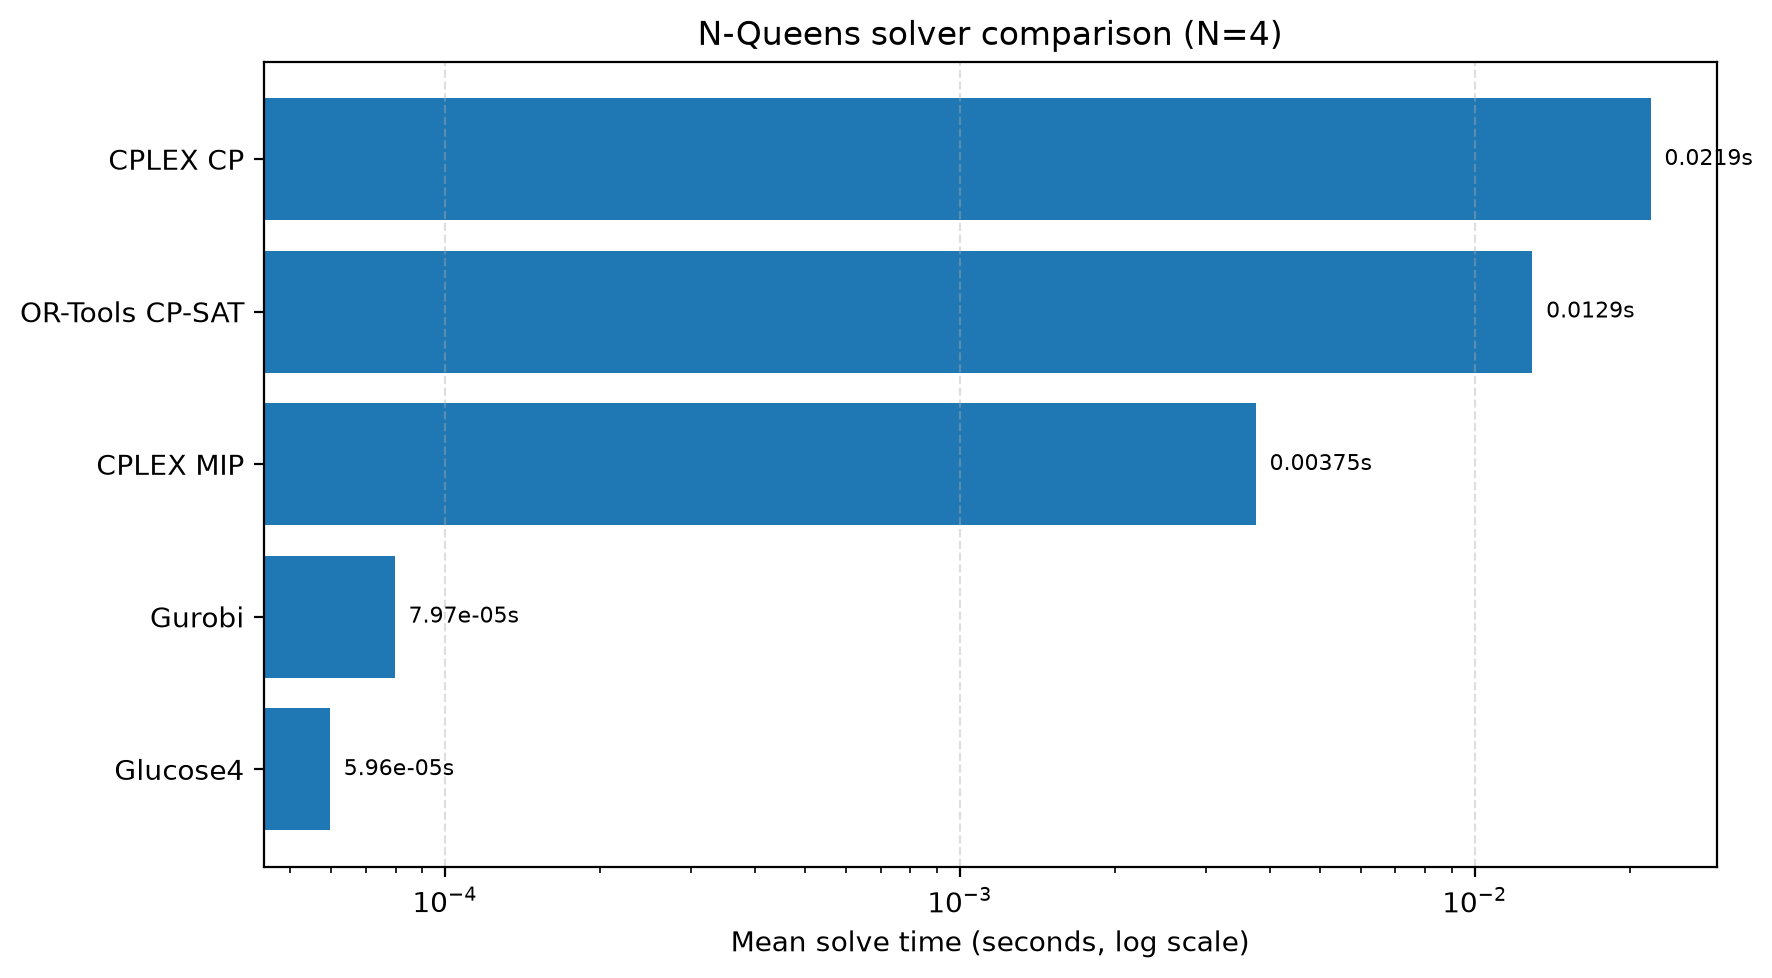
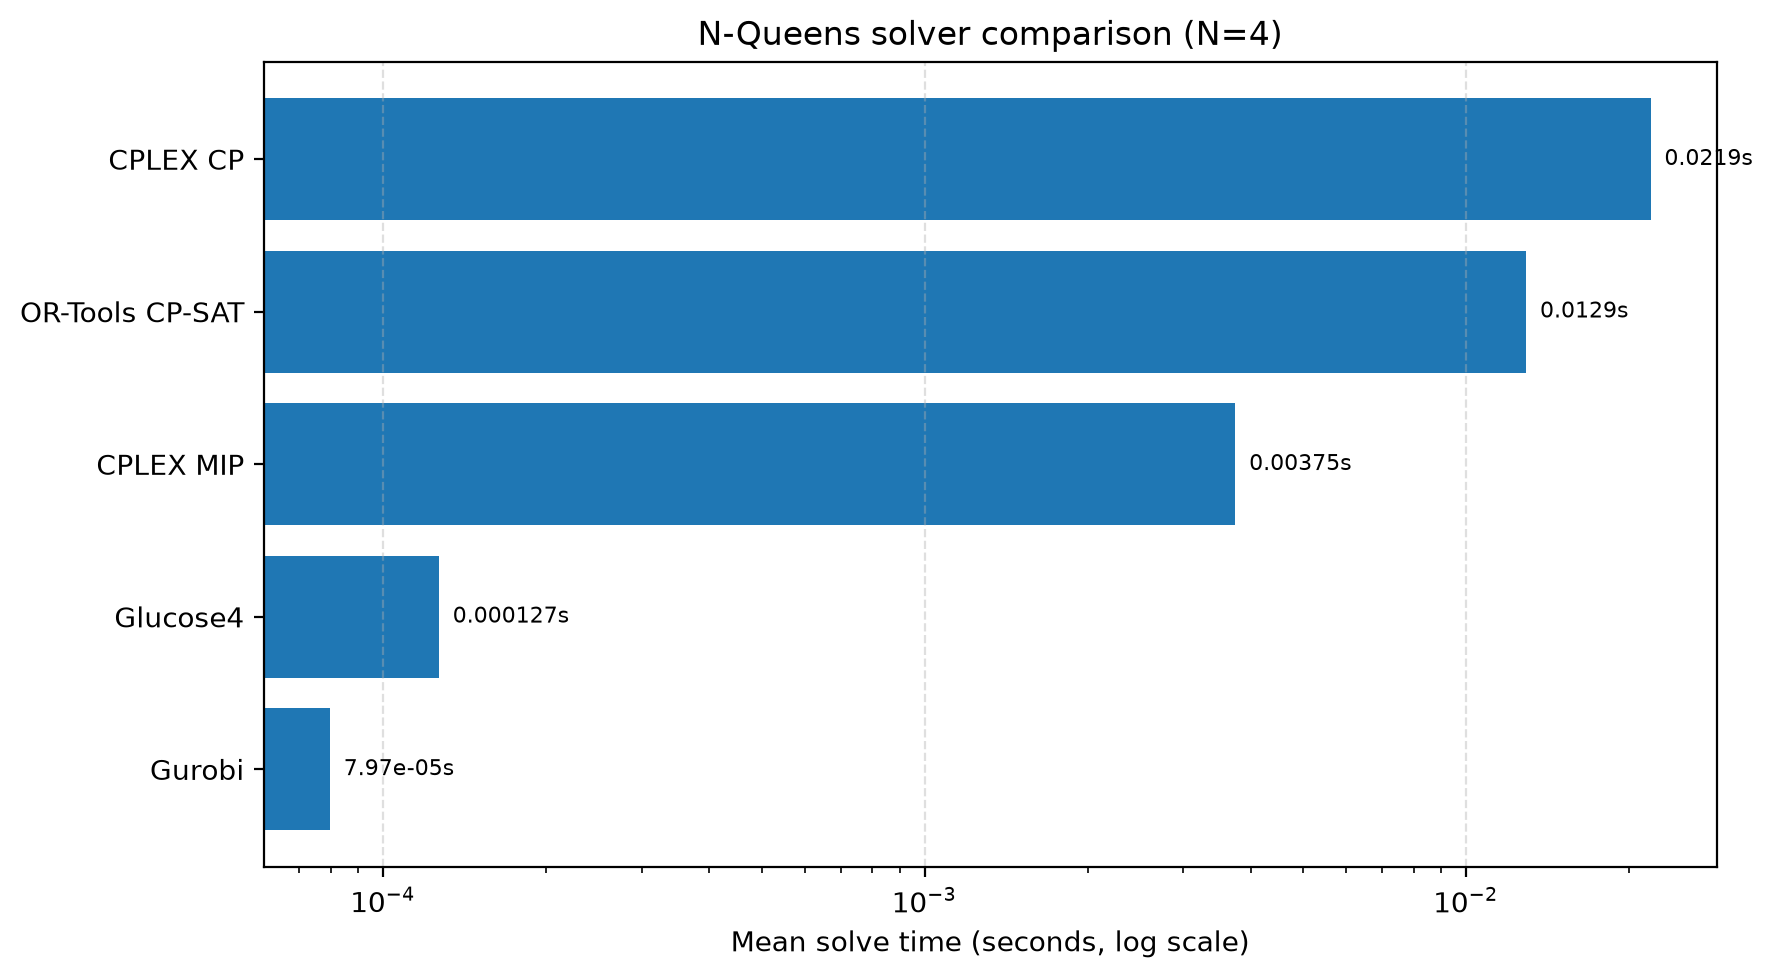
Update SAT benchmark and analysis results

diff --git a/src/nqueens_sat.py b/src/nqueens_sat.py
@@ -230,6 +230,8 @@ def solve_nqueens(n):
         is_sat = solver.solve()
         solve_time = perf_counter() - solve_start
 
+        num_variables = solver.nof_vars()
+
         if not is_sat:
             board = None
         else:
@@ -250,7 +252,7 @@ def solve_nqueens(n):
         "n": n,
         "status": "SAT" if board is not None else "UNSAT",
         "valid": validate_board(board),
-        "variables": n * n,
+        "variables": num_variables,
         "clauses": len(clauses),
         "build_time": build_time,
         "solve_time": solve_time,
